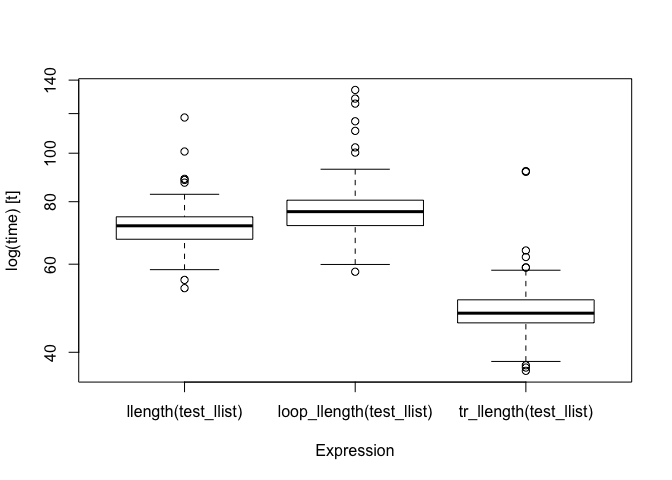
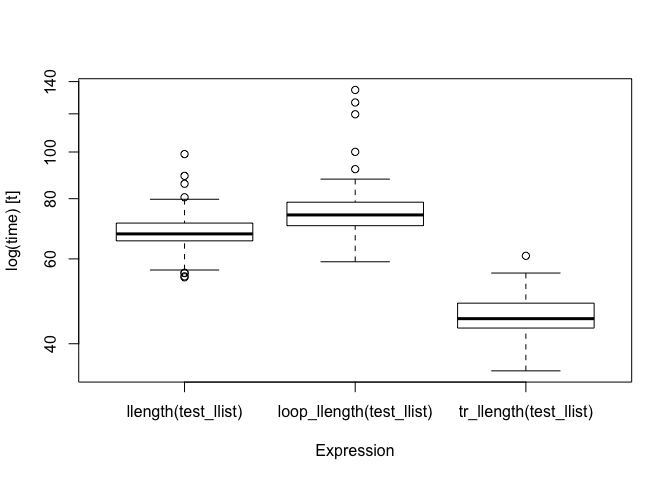
Bumped version

diff --git a/README.md b/README.md
@@ -8,8 +8,8 @@
 [![Project Status: Active – The project has reached a stable, usable
 state and is being actively
 developed.](http://www.repostatus.org/badges/latest/active.svg)](http://www.repostatus.org/#active)
-[![Last-changedate](https://img.shields.io/badge/last%20change-2018--03--17-green.svg)](/commits/master)
-[![packageversion](https://img.shields.io/badge/Package%20version-0.1.1.9000-green.svg?style=flat-square)](commits/master)
+[![Last-changedate](https://img.shields.io/badge/last%20change-2018--03--20-green.svg)](/commits/master)
+[![packageversion](https://img.shields.io/badge/Package%20version-0.1.1.9002-green.svg?style=flat-square)](commits/master)
 
 [![Travis build
 status](https://travis-ci.org/mailund/tailr.svg?branch=master)](https://travis-ci.org/mailund/tailr)
@@ -75,22 +75,9 @@ We can then, automatically, translate that into a looping version:
 ``` r
 tr_factorial <- tailr::loop_transform(factorial, byte_compile = FALSE)
 tr_factorial
-#> function (n, acc = 1) 
-#> {
-#>     .tailr_n <- n
-#>     .tailr_acc <- acc
-#>     callCC(function(escape) {
-#>         repeat {
-#>             n <- .tailr_n
-#>             acc <- .tailr_acc
-#>             if (n <= 1) 
-#>                 escape(acc)
-#>             else {
-#>                 .tailr_n <<- n - 1
-#>                 .tailr_acc <<- acc * n
-#>             }
-#>         }
-#>     })
+#> function(n, acc = 1) {
+#>     if (n <= 1) acc
+#>     else factorial(n - 1, acc * n)
 #> }
 
 tr_factorial(100)
@@ -122,10 +109,10 @@ bm <- microbenchmark::microbenchmark(factorial(n),
                                      tr_factorial(n))
 bm
 #> Unit: microseconds
-#>               expr     min      lq      mean    median        uq      max
-#>       factorial(n) 699.813 856.687 1387.9600 1198.2065 1539.7315 7509.550
-#>  loop_factorial(n)  50.245  54.284  131.3484   61.8165   78.9795 5600.113
-#>    tr_factorial(n) 169.367 196.524  319.8288  235.3775  312.9195 2793.829
+#>               expr     min       lq      mean   median       uq      max
+#>       factorial(n) 715.304 772.4265 1035.9802 863.2585 1179.665 6816.073
+#>  loop_factorial(n)  51.310  51.8860   96.7987  53.6600   60.598 3491.843
+#>    tr_factorial(n) 791.451 821.8215 1100.5864 907.5140 1166.180 2606.855
 #>  neval
 #>    100
 #>    100
@@ -220,27 +207,12 @@ The function we generate is rather complicated
 
 ``` r
 tr_llength
-#> function (llist, acc = 0) 
-#> {
-#>     .tailr_llist <- llist
-#>     .tailr_acc <- acc
-#>     callCC(function(escape) {
-#>         repeat {
-#>             llist <- .tailr_llist
-#>             acc <- .tailr_acc
-#>             if (!rlang::is_null(..match_env <- pmatch::test_pattern(llist, 
-#>                 NIL))) 
-#>                 with(..match_env, escape(acc))
-#>             else if (!rlang::is_null(..match_env <- pmatch::test_pattern(llist, 
-#>                 CONS(car, cdr)))) 
-#>                 with(..match_env, {
-#>                   .tailr_llist <<- cdr
-#>                   .tailr_acc <<- acc + 1
-#>                 })
-#>         }
-#>     })
+#> function(llist, acc = 0) {
+#>     cases(llist,
+#>           NIL -> acc,
+#>           CONS(car, cdr) -> llength(cdr, acc + 1))
 #> }
-#> <bytecode: 0x7fdcd3f09d18>
+#> <bytecode: 0x7fac8a3e9238>
 ```
 
 but, then, it is not one we want to manually inspect in any case.
@@ -263,13 +235,13 @@ bm <- microbenchmark::microbenchmark(llength(test_llist),
 bm
 #> Unit: milliseconds
 #>                      expr      min       lq     mean   median       uq
-#>       llength(test_llist) 53.73598 67.30172 71.61504 71.59842 74.62157
-#>  loop_llength(test_llist) 57.95161 71.66909 78.34020 76.41509 80.55612
-#>    tr_llength(test_llist) 36.72396 45.79821 48.95977 47.88707 50.92382
+#>       llength(test_llist) 54.94337 65.40173 68.42609 67.61124 71.20118
+#>  loop_llength(test_llist) 59.18011 70.31971 75.76034 74.02095 78.67105
+#>    tr_llength(test_llist) 35.13879 43.11308 45.63485 45.09175 48.55855
 #>        max neval
-#>  117.86029   100
-#>  133.79968   100
-#>   92.11833   100
+#>   99.00812   100
+#>  134.51344   100
+#>   60.88526   100
 boxplot(bm)
 ```
 
